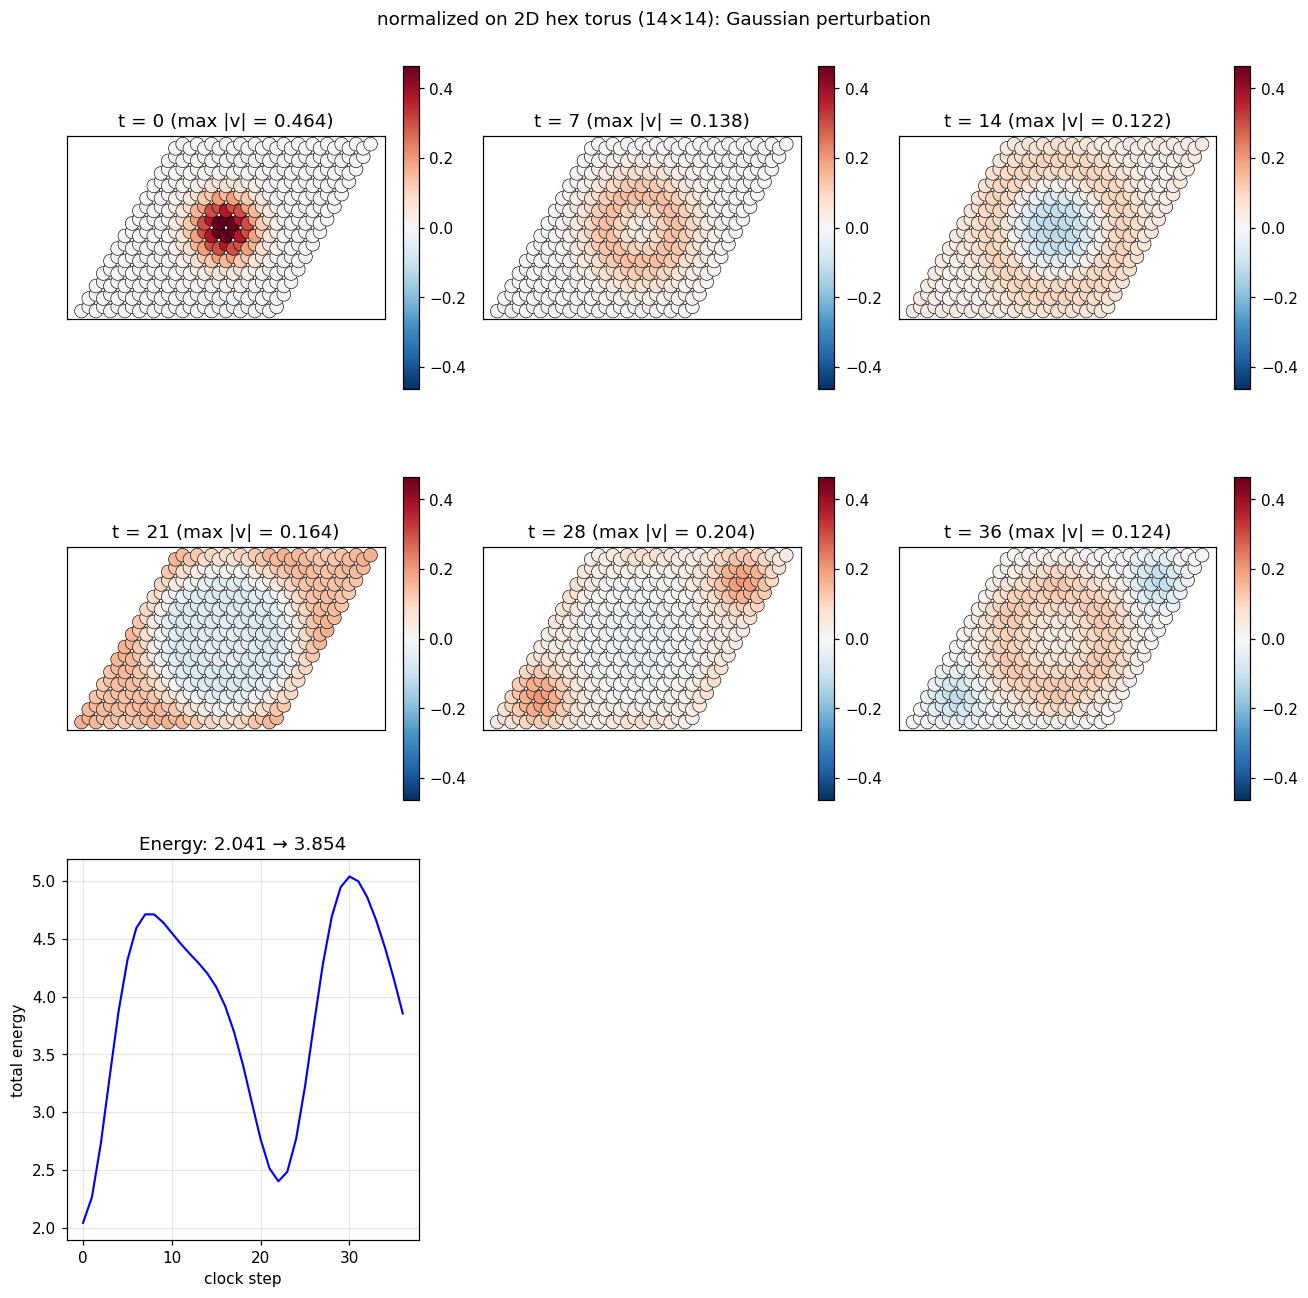
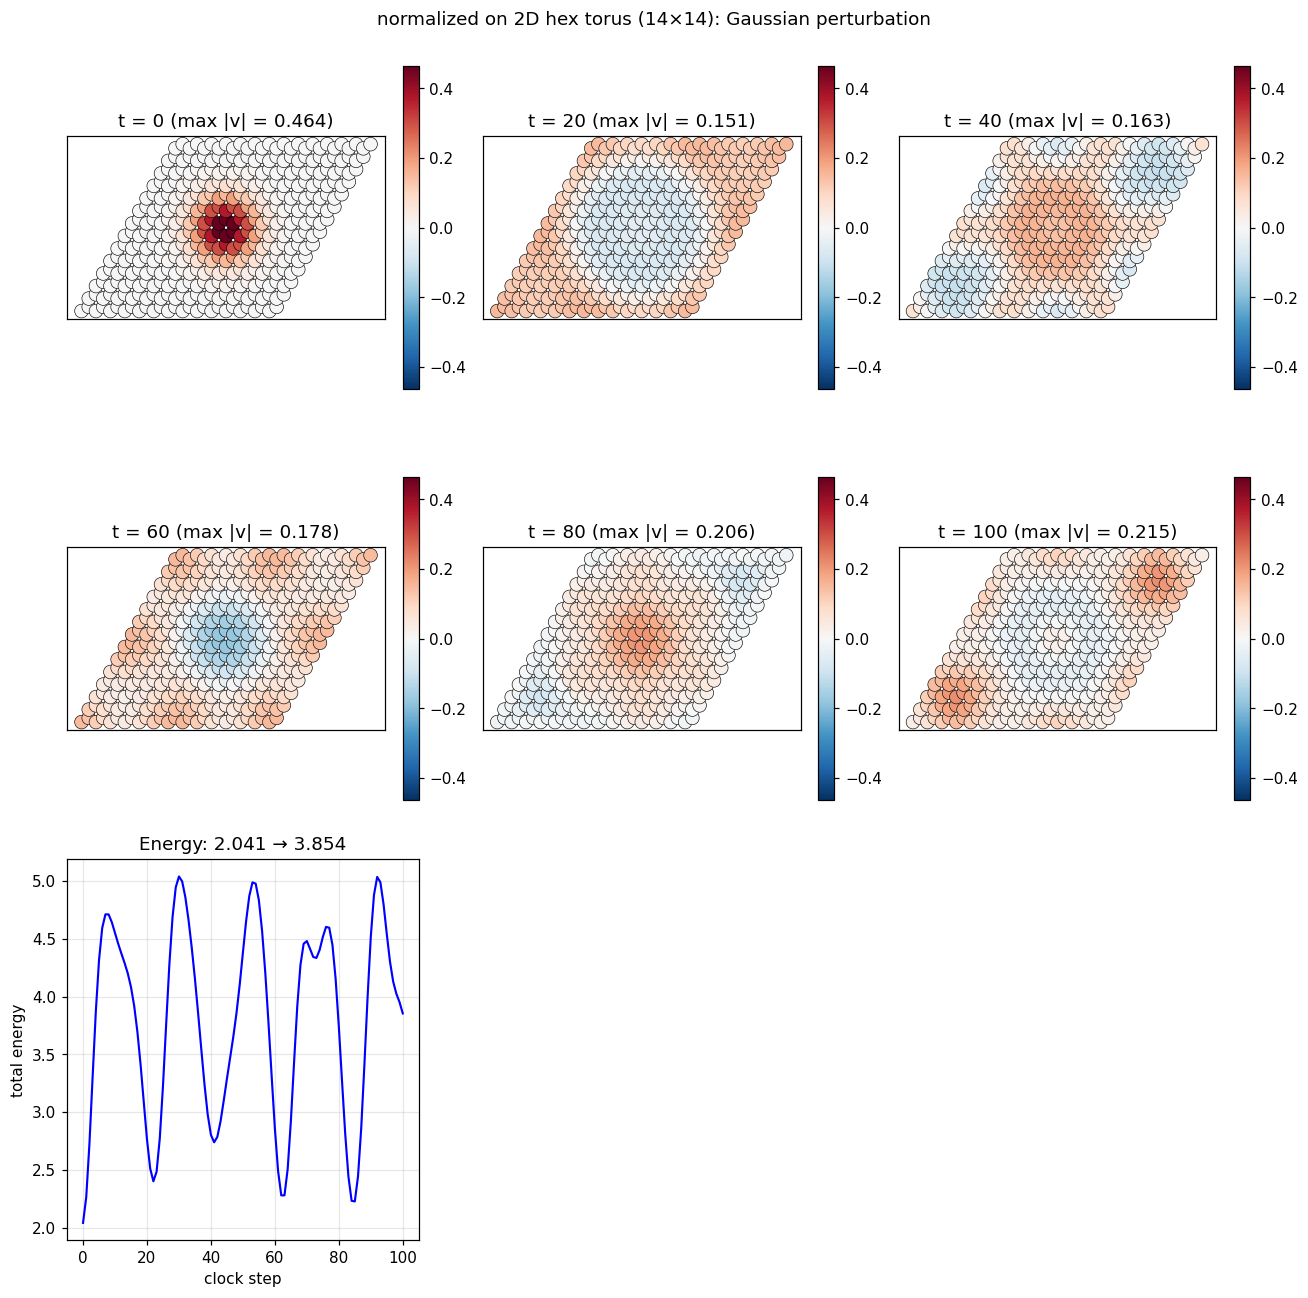
More model testing

diff --git a/projects/grid-duality/scripts/models.py b/projects/grid-duality/scripts/models.py
@@ -124,3 +124,81 @@ class NormalizedTelegrapher(Telegrapher):
         diff_pb = _principal_branch(v_new[lattice.tails] - v_new[lattice.heads])
         i_new = i + diff_pb
         return {"v": v_new, "i": i_new}
+
+
+# ---------- Relative-cos variants ---------------------------------------------
+#
+# Experimental candidates exploring the user's "compass dial" intuition:
+# the node has a dial direction v ∈ [0, 2π); each edge has a fixed geometric
+# direction θ (the line direction in space, pointing tail → head); the cos
+# of (θ − v) acts as a directional weight.
+#
+# Polarity factor s_e (+1 head-here, −1 tail-here) is included so that at a
+# head node the contribution flips sign relative to the tail node — this is
+# necessary because θ is a property of the edge as a line in space (same at
+# both endpoints), not a per-endpoint angle.
+
+def _node_signed_sum_cos_relative(v, i, lattice):
+    """Σ_k s_k · i_k · cos(θ_k − v_node) per node, vectorised."""
+    # Broadcasting: cos has shape (n_nodes, n_edges); M (signs) has same shape.
+    cos_mat = np.cos(lattice.theta[None, :] - v[:, None])
+    return ((lattice.M * cos_mat) @ i)
+
+
+class RelativeCosNode(Telegrapher):
+    """Variant A: cos on node update only (relative to v); plain edge update."""
+
+    name = "relcos-node"
+
+    def update(self, state, lattice):
+        v = state["v"]
+        i = state["i"]
+        delta = _node_signed_sum_cos_relative(v, i, lattice)
+        v_new = (v + delta) % TWO_PI
+        diff_pb = _principal_branch(v_new[lattice.tails] - v_new[lattice.heads])
+        i_new = i + diff_pb
+        return {"v": v_new, "i": i_new}
+
+
+class RelativeCosEdge(Telegrapher):
+    """Variant B: plain node update; cos on edge update (relative to v at each endpoint).
+
+    Edge update reads each endpoint's phase-distance scaled by cos(θ − v_end):
+        e_new = e + (φ(v_tail) · cos(θ − v_tail) − φ(v_head) · cos(θ − v_head))
+    where φ(v) is the principal-branch reading of v in (−π, π], so that v
+    is treated as a phase amplitude, not a raw [0, 2π) value.
+    """
+
+    name = "relcos-edge"
+
+    def update(self, state, lattice):
+        v = state["v"]
+        i = state["i"]
+        delta = lattice.M @ i
+        v_new = (v + delta) % TWO_PI
+        v_tail = v_new[lattice.tails]
+        v_head = v_new[lattice.heads]
+        amp_tail = _phase_distance(v_tail) * np.cos(lattice.theta - v_tail)
+        amp_head = _phase_distance(v_head) * np.cos(lattice.theta - v_head)
+        i_new = i + (amp_tail - amp_head)
+        return {"v": v_new, "i": i_new}
+
+
+class RelativeCosBoth(Telegrapher):
+    """Variant C: cos relative to v on both phases."""
+
+    name = "relcos-both"
+
+    def update(self, state, lattice):
+        v = state["v"]
+        i = state["i"]
+        # Node update with cos weighting
+        delta = _node_signed_sum_cos_relative(v, i, lattice)
+        v_new = (v + delta) % TWO_PI
+        # Edge update with cos weighting
+        v_tail = v_new[lattice.tails]
+        v_head = v_new[lattice.heads]
+        amp_tail = _phase_distance(v_tail) * np.cos(lattice.theta - v_tail)
+        amp_head = _phase_distance(v_head) * np.cos(lattice.theta - v_head)
+        i_new = i + (amp_tail - amp_head)
+        return {"v": v_new, "i": i_new}

diff --git a/projects/grid-duality/scripts/engine.py b/projects/grid-duality/scripts/engine.py
@@ -32,7 +32,7 @@ class Lattice:
         M: ndarray shape (n_nodes, n_edges), the signed incidence matrix
     """
 
-    def __init__(self, n_nodes, edges, positions=None):
+    def __init__(self, n_nodes, edges, positions=None, edge_displacements=None):
         self.n_nodes = int(n_nodes)
         self.n_edges = len(edges)
         self.edges = list(edges)
@@ -53,6 +53,20 @@ class Lattice:
         # Coordination per node = number of incident edges (in or out)
         self.coord = np.abs(M).sum(axis=1)
 
+        # Edge geometric direction θ (radians).
+        # If displacements are provided (e.g., wrapped for a torus), use them;
+        # else compute from raw position differences.
+        if edge_displacements is None:
+            edge_displacements = self.positions[self.heads] - self.positions[self.tails]
+        self.edge_displacements = np.asarray(edge_displacements, dtype=float)
+        if self.edge_displacements.shape[-1] >= 2:
+            self.theta = np.arctan2(
+                self.edge_displacements[:, 1],
+                self.edge_displacements[:, 0],
+            )
+        else:
+            self.theta = np.zeros(self.n_edges)
+
 
 def make_1d_periodic(n):
     """A 1D periodic ring of n nodes connected by n right-pointing edges.
@@ -62,7 +76,9 @@ def make_1d_periodic(n):
     """
     edges = [(i, (i + 1) % n) for i in range(n)]
     positions = np.array([[i, 0.0] for i in range(n)], dtype=float)
-    return Lattice(n, edges, positions)
+    # All edges point in the +x direction (including the wraparound edge).
+    edge_displacements = np.tile(np.array([[1.0, 0.0]]), (n, 1))
+    return Lattice(n, edges, positions, edge_displacements=edge_displacements)
 
 
 def make_2d_hex_torus(nx, ny):
@@ -95,12 +111,22 @@ def make_2d_hex_torus(nx, ny):
             positions[B_idx(i, j)] = origin + d_AB
 
     # Edges: each A connects to 3 B's. All edges A → B (bipartite orientation).
+    # Displacement vectors per edge are computed from the *unwrapped*
+    # neighbor offsets so they reflect the short-image direction even
+    # when the edge wraps around the torus.
     edges = []
+    edge_displacements = []
+    # Local displacements from any A to its three B-neighbors:
+    disp_same = d_AB
+    disp_left = -a1 + d_AB
+    disp_below = -a2 + d_AB
+
     for j in range(ny):
         for i in range(nx):
             A = A_idx(i, j)
-            edges.append((A, B_idx(i, j)))           # B in same cell
-            edges.append((A, B_idx(i - 1, j)))       # B in cell to the left
-            edges.append((A, B_idx(i, j - 1)))       # B in cell below
+            edges.append((A, B_idx(i, j)));     edge_displacements.append(disp_same)
+            edges.append((A, B_idx(i - 1, j))); edge_displacements.append(disp_left)
+            edges.append((A, B_idx(i, j - 1))); edge_displacements.append(disp_below)
 
-    return Lattice(n_nodes, edges, positions)
+    edge_displacements = np.array(edge_displacements)
+    return Lattice(n_nodes, edges, positions, edge_displacements=edge_displacements)

diff --git a/projects/grid-duality/scripts/test_2d_pulse.py b/projects/grid-duality/scripts/test_2d_pulse.py
@@ -21,7 +21,13 @@ matplotlib.use("Agg")
 import matplotlib.pyplot as plt
 
 from engine import make_2d_hex_torus
-from models import Telegrapher, NormalizedTelegrapher
+from models import (
+    Telegrapher,
+    NormalizedTelegrapher,
+    RelativeCosNode,
+    RelativeCosEdge,
+    RelativeCosBoth,
+)
 
 
 OUTDIR = os.path.join(os.path.dirname(__file__), "output")
@@ -117,7 +123,7 @@ def plot_2d_results(history, lattice, title, filename, snapshot_indices=None):
 
 def main():
     nx, ny = 14, 14
-    n_steps = 36
+    n_steps = 100
 
     lattice = make_2d_hex_torus(nx, ny)
     print(f"Lattice: 2D hex torus, {nx}×{ny} cells "
@@ -128,7 +134,14 @@ def main():
 
     perturbation_factory = gaussian_at_center(amplitude=0.5, width=1.5)
 
-    for ModelCls in [Telegrapher, NormalizedTelegrapher]:
+    energy_traces = {}
+    for ModelCls in [
+        Telegrapher,
+        NormalizedTelegrapher,
+        RelativeCosNode,
+        RelativeCosEdge,
+        RelativeCosBoth,
+    ]:
         model = ModelCls()
         print(f"--- Model: {model.name} ---")
         perturbation_fn = perturbation_factory(lattice)
@@ -141,7 +154,23 @@ def main():
             f"{model.name} on 2D hex torus ({nx}×{ny}): Gaussian perturbation",
             f"{model.name}-2d-gaussian.png",
         )
+        energy_traces[model.name] = history["energy"]
         print()
+
+    # Summary plot of energy traces (log-y for fair comparison)
+    fig, ax = plt.subplots(figsize=(10, 5))
+    for name, e in energy_traces.items():
+        ax.semilogy(e, label=name, linewidth=1.4)
+    ax.set_xlabel("clock step")
+    ax.set_ylabel("total energy (log scale)")
+    ax.set_title(f"Energy vs time, all candidates, 2D hex torus ({nx}×{ny})")
+    ax.legend(loc="best", fontsize=9)
+    ax.grid(alpha=0.3)
+    plt.tight_layout()
+    out = os.path.join(OUTDIR, "energy-comparison.png")
+    plt.savefig(out, dpi=120, bbox_inches="tight")
+    plt.close()
+    print(f"wrote {out}")
 
 
 if __name__ == "__main__":
